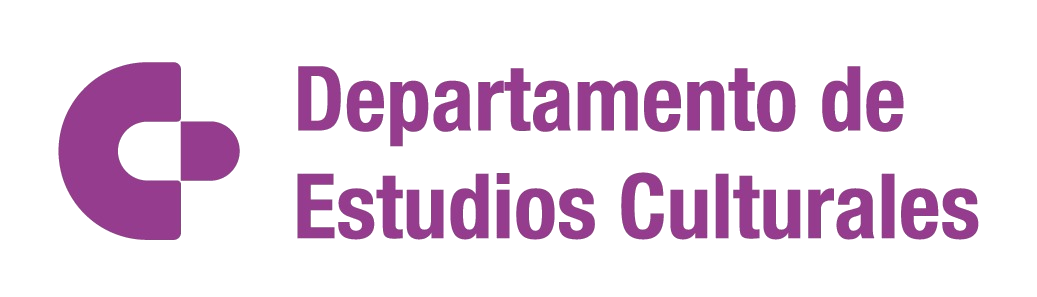
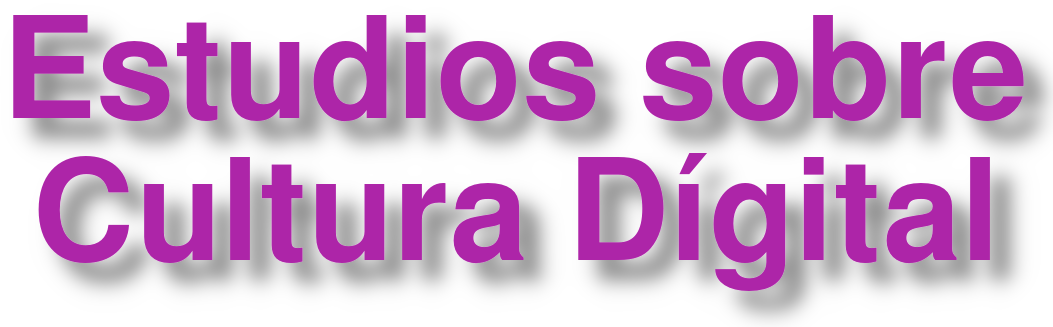
preview para el lanzamiento

diff --git a/index.html b/index.html
@@ -1,31 +1,27 @@
----
-layout: page
+--- 
+layout: page 
 ---
 
-			<p>Este es un proyecto conjunto de los departamentos de 
-                <b>
-                <a style="text-decoration: none" href="http://www.ler.uam.mx/es/UAMLerma/DSIC" target="_blank">Sistemas de Información y Comunicaciones</a></b> y de
-                <b>
-                <a style="text-decoration: none" href="http://www.ler.uam.mx/es/UAMLerma/investigacionEstudiosCulturales" target="_blank">Estudios Culturales</a></b> de la 
-            <b>
-                <a style="text-decoration: none" href="http://www.ler.uam.mx" target="_blank">UAM-Lerma</a></b> y el departamento de 
-            <b>
-                <a style="text-decoration: none" href="http://www.cua.uam.mx/investigacion/grupos-y-lineas-de-investigacion/ciencias-de-la-comunicacion-y-diseno-ccd/departamento-de-tecnologias-de-la-informacion" target="_blank">Tecnologías de la Información</a></b>
-                de la <b><a style="text-decoration: none" href="http://www.cua.uam.mx" target="_blank">UAM-Cuajimalpa</a></b>.            
-                El objetivo del proyecto es aplicar técnicas de <em>aprendizaje automático</em>, <em>ciencia de datos</em> y <em>ciencia de redes</em> en la <strong>Caracterización de Modelos de Evolución de Redes Sociales</strong>, se busca que los modelos obtenidos sean validados en casos de estudio de redes de coautorı́as y propagación de información en redes sociales.</p>
+<p>Este es un proyecto conjunto de las áreas de investigación de
+    <b>
+                <a style="text-decoration: none" href="http://www.ler.uam.mx/es/UAMLerma/DSIC" target="_blank">Sistemas de Información y Ciencias Computacionales</a></b> y de
+    <b>
+                <a style="text-decoration: none" href="http://www.ler.uam.mx/es/UAMLerma/areasInvestigacionEC" target="_blank">Estudios sobre Cultura Dígital</a></b> de la
+    <b>
+                <a style="text-decoration: none" href="http://www.ler.uam.mx" target="_blank">UAM-Lerma</a></b>, así como del departamento de
+    <b>
+                <a style="text-decoration: none" href="http://www.cua.uam.mx/investigacion/grupos-y-lineas-de-investigacion/ciencias-de-la-comunicacion-y-diseno-ccd/departamento-de-tecnologias-de-la-informacion" target="_blank">Tecnologías de la Información</a></b>    de la <b><a style="text-decoration: none" href="http://www.cua.uam.mx" target="_blank">UAM-Cuajimalpa</a></b>. El objetivo del proyecto es aplicar técnicas de <em>aprendizaje automático</em>, <em>ciencia de datos</em> y <em>ciencia de redes</em> en
+    la <strong>Caracterización de Modelos de Evolución de Redes Sociales</strong>, se busca que los modelos obtenidos sean validados en casos de estudio de redes de académicas y propagación de información en medios sociales.</p>
 
-<p>En este sitio encontrarás información sobre actividades realizadas en el marco del proyecto, 
-    tales como: resultados difundidos en conferencias y revistas, el seminario 
-    <em>Ciencia de Redes: Métodos y Aplicaciones</em>, el curso <em>Análisis de Redes Sociales</em>, 
-    un blog sobre <em>análisis de redes sociales</em>, y la descripción de proyectos integradores y terminales 
-    disponibles para alumnos de la UAM.</p>
+<p>En este sitio encontrarás información sobre los miembros del proyecto y las actividades realizadas en el marco del proyecto, tales como: resultados difundidos en conferencias y revistas, el seminario
+    <em>Ciencia de Redes: Métodos y Aplicaciones</em>, el curso <em>Análisis de Redes Sociales</em>, un blog sobre <em>análisis de redes sociales</em>, y la descripción de proyectos integradores y terminales disponibles para alumnos de la UAM.</p>
 
 
 
 {% for post in paginator.posts %}
 <div class="post-preview">
     <a href="{{ post.url | prepend: site.baseurl }}">
-        <h2 class="post-title">            {{ post.title }}
+        <h2 class="post-title"> {{ post.title }}
         </h2>
         {% if post.subtitle %}
         <h3 class="post-subtitle">
@@ -34,12 +30,11 @@ layout: page
         {% endif %}
     </a>
     <p class="post-meta" style="margin-bottom:5px">Posted by {{ post.author }} on {{ post.date | date: "%B %-d, %Y" }}</p>
-	<div class="notepad-index-post-tags" style="">
-		{% for tag in post.tags %}<a href="{{ site.baseurl }}/search/index.html#{{ tag | cgi_encode }}" title="Other posts from the {{ tag | capitalize }} tag">{{ tag | capitalize }}</a>{% unless forloop.last %}&nbsp;{% endunless %}{% endfor %}
-	</div>
+    <div class="notepad-index-post-tags" style="">
+        {% for tag in post.tags %}<a href="{{ site.baseurl }}/search/index.html#{{ tag | cgi_encode }}" title="Other posts from the {{ tag | capitalize }} tag">{{ tag | capitalize }}</a>{% unless forloop.last %}&nbsp;{% endunless %}{% endfor %}
+    </div>
 </div>
-<hr>
-{% endfor %}
+<hr> {% endfor %}
 
 <!-- Pager -->
 {% if paginator.total_pages > 1 %}
@@ -48,12 +43,10 @@ layout: page
     <li class="previous">
         <a href="{{ paginator.previous_page_path | prepend: site.baseurl | replace: '//', '/' }}">&larr; Newer Posts</a>
     </li>
-    {% endif %}
-    {% if paginator.next_page %}
+    {% endif %} {% if paginator.next_page %}
     <li class="next">
         <a href="{{ paginator.next_page_path | prepend: site.baseurl | replace: '//', '/' }}">Older Posts &rarr;</a>
     </li>
     {% endif %}
 </ul>
 {% endif %}
-

diff --git a/_includes/footer.html b/_includes/footer.html
@@ -1,35 +1,37 @@
 <!-- Footer -->
 <footer>
     <div class="container">
-        <p><h4 class="text-center">Departamentos colaboradores:</h4></p>
+        <p>
+            <h4 class="text-center">Colaboradores:</h4>
+        </p>
         <div class="row">
             <div class="col-lg-8 col-lg-offset-2 col-md-10 col-md-offset-1">
                 <ul class="list-inline text-center">
                     <li>
                         <span class="social-share-googleplus">
                             <a href="http://www.ler.uam.mx/es/UAMLerma/DSIC" target="_blank">
-                                <img src="{{ "/img/uam/dsic.png" | prepend: site.baseurl }}" style="height:70px">
+                                <img src="{{ "/img/uam/dsic.png" | prepend: site.baseurl }}" style="height:60px">
                             </a>
-                        </span> 
-	
+                        </span>
+
                     </li>
                     <li>
                         <span class="social-share-googleplus">
-                            <a href="http://www.ler.uam.mx/es/UAMLerma/investigacionEstudiosCulturales" target="_blank"></a>
-                                <img src="{{ "/img/uam/des-lerma.png" | prepend: site.baseurl }}" style="height:70px">
+                            <a href="http://www.ler.uam.mx/es/UAMLerma/areasInvestigacionEC" target="_blank">
+                                <img src="{{ "/img/uam/des-lerma.png" | prepend: site.baseurl }}" style="height:55px">
                             </a>
-                        </span> 
-	
+                        </span>
+
                     </li>
                     <li>
                         <span class="social-share-googleplus">
                             <a href="http://www.cua.uam.mx/investigacion/grupos-y-lineas-de-investigacion/ciencias-de-la-comunicacion-y-diseno-ccd/departamento-de-tecnologias-de-la-informacion" target="_blank">
-                                <img src="{{ "/img/uam/cuaji_div.png" | prepend: site.baseurl }}" style="height:70px">
+                                <img src="{{ "/img/uam/cuaji_div.png" | prepend: site.baseurl }}" style="height:60px">
                             </a>
-                        </span> 
-	
+                        </span>
+
                     </li>
-     
+
                     <!--
                     {% if site.twitter_username %}
                     <li>
@@ -87,7 +89,7 @@
                         </a>
                     </li>
                     {% endif %}	
-                    -->			
+                    -->
                 </ul>
                 <p class="copyright text-muted"> Webmasters: <a href="http://daniaguirre.github.io/" target="_blank">Daniela Aguirre Guerrero</a> - <a href="https://iarobles.github.io" target="_blank">Ismael Robles Martínez</a>, 2021. </p>
             </div>

diff --git a/seminario.html b/seminario.html
@@ -5,10 +5,24 @@ description: "Ciencia de Redes: Métodos y Aplicaciones"
 header-img: "img/portadas/p7.jpg"
 ---
 
-With <b><a href="https://www.altmetric.com/">Altmetric</a></b>, track the impact of your Project Page on the community through mentions tracked in a rich variety of sources. Currently requires registration with Project-Pages admins to set up.
+El seminario <b>Ciencia de Redes: Métodos y Aplicaciones</b> es un esfuerzo conjunto de las áreas de investigación de
+<b>
+            <a style="text-decoration: none" href="http://www.ler.uam.mx/es/UAMLerma/DSIC" target="_blank">Sistemas de Información y Ciencias Computacionales (SIC2)</a></b> y de
+<b>
+            <a style="text-decoration: none" href="http://www.ler.uam.mx/es/UAMLerma/areasInvestigacionEC" target="_blank">Estudios sobre Cultura Dígital</a></b> de la
 
 <br>
+<b>
+    <a style="text-decoration: none" href="http://www.ler.uam.mx" target="_blank">UAM-Lerma</a></b>. En este seminario se presentarán 
+avances de investigaciones en torno a métodos matemáticos y computacionales aplicados a la Ciencia de Redes, así como casos de estudio de análisis de redes sociales 
+que van desde el _análisis de redes académicas_ y de _propagación de información en medios sociales_, como Twitter y Reddit.
+<p>
+El seminario será transmitido en vivo en este portal y por el canal de 
+<b><a style="text-decoration: none" href="https://www.youtube.com/channel/UCunrvKz1WB8sElwhFkBI3Pw" target="_blank">YouTube</a></b> del área de investigacion SIC2. Al final del seminario se dará tiempo para atender dudas y comentarios de los asistentes.    
+</p>
 
-<p>Below is a sample image and not reflective of the statistics of this project.</p>
 
-<a href="https://www.altmetric.com/"><img src= "{{ "/img/altmetricsamplebadge.PNG " | prepend: site.baseurl }}" style="width: 60%; margin-left: 20%; margin-right: 20%;"></a>
+<br>
+<p>
+<img src= "{{ "/img/calendario.jpg " | prepend: site.baseurl }}" style="width: 80%; margin-left: 10%; margin-right: 10%;">
+</p>

diff --git a/curso.md b/curso.md
@@ -1,12 +1,14 @@
 ---
 layout: page
 title: Curso
-description: "Análisis de Redes Sociales: Métodos y Aplicaciones"
+description: "Herramientas Computacionales para el Análisis de Redes Sociales"
 "header-img": "img/portadas/p7.jpg"
 published: true
 ---
 
 
-Este proyecto tiene como objetivo aplicar técnicas de _Aprendizaje Automático_, _Ciencia de Datos_ y _Ciencia de Redes_ en la **Caracterización de Modelos de Evolución de Redes Sociales**, se busca que los modelos obtenidos sean validados en casos de estudio concretos, tales como redes de coautorı́as y Twitter.
+El curso **Herramientas Computacionales para el Análisis de Redes Sociales** está dirigido a profesores y estudiantes de posgrado de las áreas de Ciencias de la Computación y Ciencias Sociales de la UAM. El objetivo del curso es brindar un acercamiento al _análisis de redes sociales_ mediante el uso de herramientas computacionales aplicadas a casos de estudio sobre _análisis de redes académicas_ y _análisis de propagación de información en Twitter_. 
 
-En este sitio encontrás información sobre actividades realizadas en el marco del proyecto, tales como: resultados difundidos en conferencias y revistas, el _seminario Ciencia de Redes: Métodos y Aplicaciones_, el _curso Análisis de Redes Sociales_, un blog sobre temas de Análisis de Redes Sociales, proyectos integradores y terminales disponibles para alumnos de la UAM.
+En la primera parte del curso se presentarán conceptos fundamentales de _teoría de gráficas_ y _estadística_ aplicadas al _análisis de redes sociales_. En la segunda parte se realizarán casos de estudio mediante el uso de herramientas computacionales, tales como: [**VOSviewer**](https://www.vosviewer.com/), [**Bibliometrix**](https://bibliometrix.org/) y [**Gephi**](https://gephi.org/), así como el uso del [**API de Twitter**](https://developer.twitter.com/en).
+
+El curso está planeado para el mes de julio del 2021 y tendrá una duración de 10 hrs. Próximamente se publicarán las fechas exactas, así como el temario e información sobre el proceso de inscripción.
